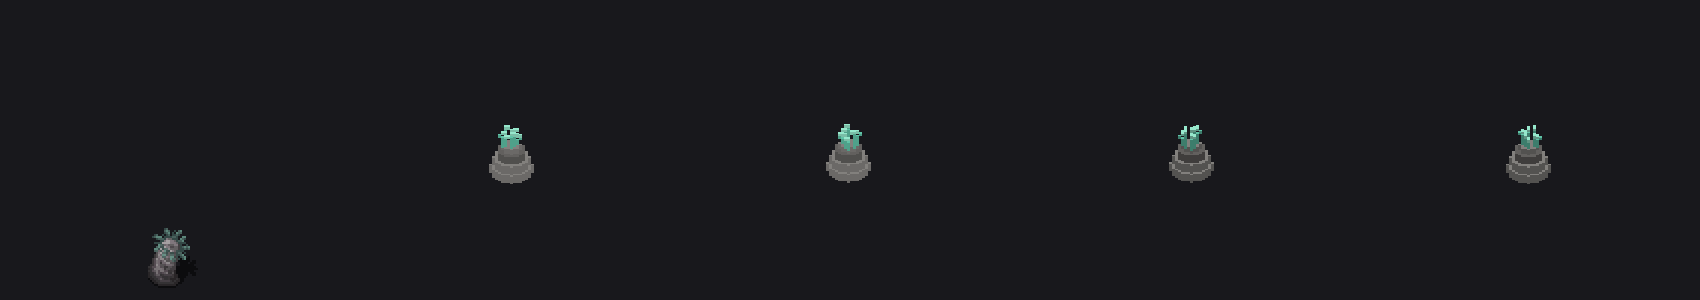
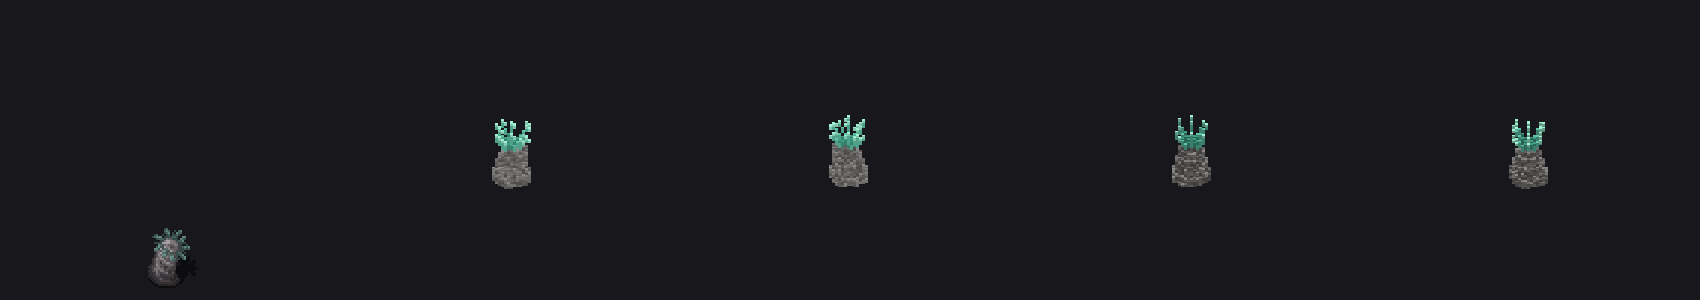
Anemone redo: irregular column body, full tentacle crown

diff --git a/crates/voxelizer/src/props.rs b/crates/voxelizer/src/props.rs
@@ -4382,37 +4382,79 @@ fn excl_model(id: &str, sprite: &RgbaImage) -> Option<PropModel> {
     }
 }
 
-/// Alien anemone: a rock mound sprouting teal
-/// tentacles.
+/// Alien anemone: a columnar grey body with a
+/// broad crown of teal tentacles -- the sprite's
+/// tentacles spread wider than the body and are
+/// its dominant feature.
 fn excl_anemone() -> PropModel {
-    let mut m = PropModel::new([32, 17, 32]);
-    let rock = rgb(130, 128, 125);
-    let rock_dk = rgb(98, 96, 94);
-    cyl_y(&mut m, 16, 16, 7.0, 0, 2, rock);
-    cyl_y(&mut m, 16, 16, 6.0, 3, 5, rock);
-    cyl_y(&mut m, 16, 16, 4.5, 6, 8, rock_dk);
-    cyl_y(&mut m, 16, 16, 3.0, 9, 10, rock);
-    let teal = rgb(96, 196, 168);
-    let teal_lt = rgb(150, 232, 204);
-    for i in 0..8 {
-        let t = i as f32 / 8.0 * std::f32::consts::TAU;
-        let bx = (16.0 + 2.6 * t.cos()) as i32;
-        let bz = (16.0 + 2.6 * t.sin()) as i32;
-        let tall = 4 + (i % 3);
-        for y in 0..tall {
-            let lean = if y >= tall - 1 { 1 } else { 0 };
-            m.set(
-                (bx + lean * t.cos() as i32) as u32,
-                10 + y,
-                (bz + lean * t.sin() as i32) as u32,
-                Some(teal),
-            );
+    let mut m = PropModel::new([32, 22, 32]);
+    let greys = [
+        rgb(110, 108, 106),
+        rgb(126, 124, 122),
+        rgb(140, 138, 134),
+        rgb(96, 94, 92),
+    ];
+    // Irregular column: per-layer radius with hash
+    // jitter and speckle.
+    for y in 0..13u32 {
+        let r = match y {
+            0..=2 => 6.4,
+            3..=6 => 5.4,
+            7..=10 => 4.4,
+            _ => 3.6,
+        };
+        let cx = if y > 8 { 17 } else { 16 };
+        for dx in -8i32..=8 {
+            for dz in -8i32..=8 {
+                let d = ((dx * dx + dz * dz) as f32).sqrt();
+                let jitter = hash01((dx + 20) as u32 * 7 + y, (dz + 20) as u32 * 13) * 1.2;
+                if d <= r + jitter - 0.6 {
+                    let c = greys[(hash01((dx + 20) as u32 * 3 + y * 31, (dz + 20) as u32 * 5) * 4.0)
+                        as usize
+                        % 4];
+                    m.set((cx + dx) as u32, y, (16 + dz) as u32, Some(c));
+                }
+            }
         }
-        m.set(bx as u32, 10 + tall, bz as u32, Some(teal_lt));
-        m.set((bx + 1) as u32, 10 + tall, bz as u32, Some(teal_lt));
     }
-    m.set(16, 11, 16, Some(teal));
-    m.set(16, 12, 16, Some(teal_lt));
+    // The crown: a dozen-plus tentacles leaning
+    // outward, two cells thick at the base, with
+    // bulb tips.
+    let teal = rgb(96, 196, 168);
+    let teal_dk = rgb(64, 158, 132);
+    let tip = rgb(160, 240, 210);
+    let stalks: [(i32, i32, u32); 13] = [
+        (0, 0, 8),
+        (2, 0, 7),
+        (-2, 0, 6),
+        (0, 2, 7),
+        (0, -2, 6),
+        (3, 2, 5),
+        (-3, 2, 6),
+        (3, -2, 6),
+        (-3, -2, 5),
+        (1, 3, 5),
+        (-1, -3, 6),
+        (3, 0, 4),
+        (-2, 3, 4),
+    ];
+    for (ox, oz, tall) in stalks {
+        let bx = 16 + ox;
+        let bz = 16 + oz;
+        for dy in 0..tall {
+            let lean = (dy / 2) as i32;
+            let lx = bx + lean * ox.signum() + if ox == 0 && dy > 2 { 0 } else { 0 };
+            let lz = bz + lean * oz.signum();
+            m.set(lx as u32, 13 + dy, lz as u32, Some(teal));
+            if dy < tall / 2 {
+                m.set((lx - ox.signum()) as u32, 13 + dy, (lz - oz.signum()) as u32, Some(teal_dk));
+            }
+            if dy == tall - 1 {
+                m.set(lx as u32, 13 + dy + 1, lz as u32, Some(tip));
+                m.set((lx + 1) as u32, 13 + dy, lz as u32, Some(tip));
+            }
+        }
+    }
     m
 }
 
